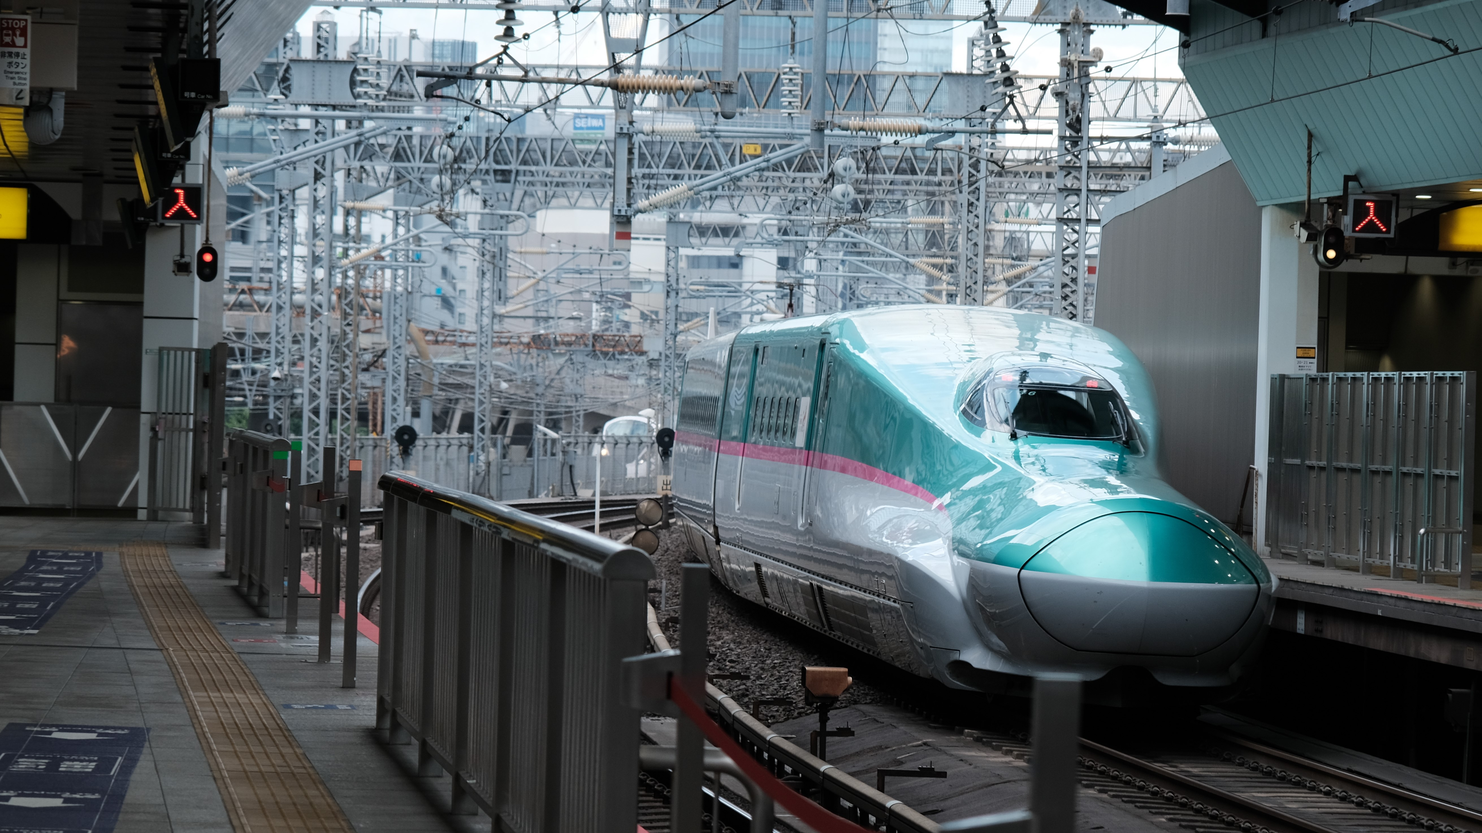
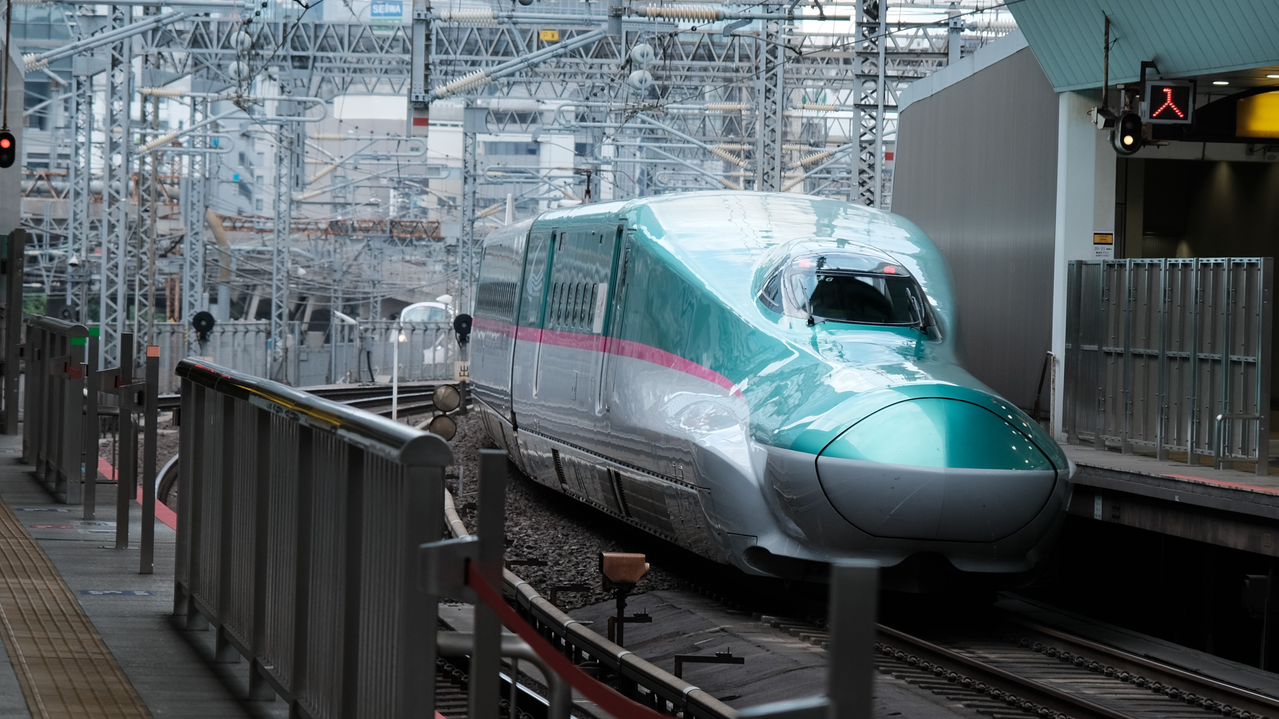
Site updated: 2023-01-14 17:29:56

diff --git a/index.html b/index.html
@@ -64,7 +64,7 @@
   <script id="fluid-configs">
     var Fluid = window.Fluid || {};
     Fluid.ctx = Object.assign({}, Fluid.ctx)
-    var CONFIG = {"hostname":"rynnzhan.github.io","root":"/","version":"1.9.4","typing":{"enable":true,"typeSpeed":50,"cursorChar":"_","loop":false,"scope":["home"]},"anchorjs":{"enable":true,"element":"h1,h2,h3,h4,h5,h6","placement":"left","visible":"hover","icon":""},"progressbar":{"enable":true,"height_px":3,"color":"#29d","options":{"showSpinner":false,"trickleSpeed":100}},"code_language":{"enable":true,"default":"TEXT"},"copy_btn":true,"image_caption":{"enable":true},"image_zoom":{"enable":true,"img_url_replace":["",""]},"toc":{"enable":true,"placement":"right","headingSelector":"h1,h2,h3,h4,h5,h6","collapseDepth":0},"lazyload":{"enable":true,"loading_img":"/img/loading.gif","onlypost":false,"offset_factor":2},"web_analytics":{"enable":true,"follow_dnt":true,"baidu":null,"google":null,"gtag":null,"tencent":{"sid":null,"cid":null},"woyaola":null,"cnzz":null,"leancloud":{"app_id":"jmmVC07XdsNvV6JeHPxb7FVl-MdYXbMMI","app_key":"h3vmDtkNT6Q3UrD9fEvZ0Ju4","server_url":null,"path":"window.location.pathname","ignore_local":false}},"search_path":"/local-search.xml"};
+    var CONFIG = {"hostname":"rynnzhan.github.io","root":"/","version":"1.9.4","typing":{"enable":true,"typeSpeed":70,"cursorChar":"_","loop":true,"scope":["home"]},"anchorjs":{"enable":true,"element":"h1,h2,h3,h4,h5,h6","placement":"left","visible":"hover","icon":"#"},"progressbar":{"enable":true,"height_px":3,"color":"#29d","options":{"showSpinner":false,"trickleSpeed":100}},"code_language":{"enable":true,"default":"TEXT"},"copy_btn":true,"image_caption":{"enable":true},"image_zoom":{"enable":true,"img_url_replace":["",""]},"toc":{"enable":true,"placement":"right","headingSelector":"h1,h2,h3,h4,h5,h6","collapseDepth":0},"lazyload":{"enable":true,"loading_img":"/img/loading.gif","onlypost":false,"offset_factor":2},"web_analytics":{"enable":true,"follow_dnt":true,"baidu":null,"google":null,"gtag":null,"tencent":{"sid":null,"cid":null},"woyaola":null,"cnzz":null,"leancloud":{"app_id":"jmmVC07XdsNvV6JeHPxb7FVl-MdYXbMMI","app_key":"h3vmDtkNT6Q3UrD9fEvZ0Ju4","server_url":null,"path":"window.location.pathname","ignore_local":false}},"search_path":"/local-search.xml"};
 
     if (CONFIG.web_analytics.follow_dnt) {
       var dntVal = navigator.doNotTrack || window.doNotTrack || navigator.msDoNotTrack;
@@ -203,7 +203,7 @@
   
 
 <div id="banner" class="banner" parallax=true
-     style="background: url('/img/DSCF2296.jpg') no-repeat center center; background-size: cover;">
+     style="background: url('/img/DSCF2297.jpg') no-repeat center center; background-size: cover;">
   <div class="full-bg-img">
     <div class="mask flex-center" style="background-color: rgba(0, 0, 0, 0.3)">
       <div class="banner-text text-center fade-in-up">

diff --git a/2023/01/14/new-post/index.html b/2023/01/14/new-post/index.html
@@ -78,7 +78,7 @@
   <script id="fluid-configs">
     var Fluid = window.Fluid || {};
     Fluid.ctx = Object.assign({}, Fluid.ctx)
-    var CONFIG = {"hostname":"rynnzhan.github.io","root":"/","version":"1.9.4","typing":{"enable":true,"typeSpeed":50,"cursorChar":"_","loop":false,"scope":["home"]},"anchorjs":{"enable":true,"element":"h1,h2,h3,h4,h5,h6","placement":"left","visible":"hover","icon":""},"progressbar":{"enable":true,"height_px":3,"color":"#29d","options":{"showSpinner":false,"trickleSpeed":100}},"code_language":{"enable":true,"default":"TEXT"},"copy_btn":true,"image_caption":{"enable":true},"image_zoom":{"enable":true,"img_url_replace":["",""]},"toc":{"enable":true,"placement":"right","headingSelector":"h1,h2,h3,h4,h5,h6","collapseDepth":0},"lazyload":{"enable":true,"loading_img":"/img/loading.gif","onlypost":false,"offset_factor":2},"web_analytics":{"enable":true,"follow_dnt":true,"baidu":null,"google":null,"gtag":null,"tencent":{"sid":null,"cid":null},"woyaola":null,"cnzz":null,"leancloud":{"app_id":"jmmVC07XdsNvV6JeHPxb7FVl-MdYXbMMI","app_key":"h3vmDtkNT6Q3UrD9fEvZ0Ju4","server_url":null,"path":"window.location.pathname","ignore_local":false}},"search_path":"/local-search.xml"};
+    var CONFIG = {"hostname":"rynnzhan.github.io","root":"/","version":"1.9.4","typing":{"enable":true,"typeSpeed":70,"cursorChar":"_","loop":true,"scope":["home"]},"anchorjs":{"enable":true,"element":"h1,h2,h3,h4,h5,h6","placement":"left","visible":"hover","icon":"#"},"progressbar":{"enable":true,"height_px":3,"color":"#29d","options":{"showSpinner":false,"trickleSpeed":100}},"code_language":{"enable":true,"default":"TEXT"},"copy_btn":true,"image_caption":{"enable":true},"image_zoom":{"enable":true,"img_url_replace":["",""]},"toc":{"enable":true,"placement":"right","headingSelector":"h1,h2,h3,h4,h5,h6","collapseDepth":0},"lazyload":{"enable":true,"loading_img":"/img/loading.gif","onlypost":false,"offset_factor":2},"web_analytics":{"enable":true,"follow_dnt":true,"baidu":null,"google":null,"gtag":null,"tencent":{"sid":null,"cid":null},"woyaola":null,"cnzz":null,"leancloud":{"app_id":"jmmVC07XdsNvV6JeHPxb7FVl-MdYXbMMI","app_key":"h3vmDtkNT6Q3UrD9fEvZ0Ju4","server_url":null,"path":"window.location.pathname","ignore_local":false}},"search_path":"/local-search.xml"};
 
     if (CONFIG.web_analytics.follow_dnt) {
       var dntVal = navigator.doNotTrack || window.doNotTrack || navigator.msDoNotTrack;

diff --git a/404.html b/404.html
@@ -64,7 +64,7 @@
   <script id="fluid-configs">
     var Fluid = window.Fluid || {};
     Fluid.ctx = Object.assign({}, Fluid.ctx)
-    var CONFIG = {"hostname":"rynnzhan.github.io","root":"/","version":"1.9.4","typing":{"enable":true,"typeSpeed":50,"cursorChar":"_","loop":false,"scope":["home"]},"anchorjs":{"enable":true,"element":"h1,h2,h3,h4,h5,h6","placement":"left","visible":"hover","icon":""},"progressbar":{"enable":true,"height_px":3,"color":"#29d","options":{"showSpinner":false,"trickleSpeed":100}},"code_language":{"enable":true,"default":"TEXT"},"copy_btn":true,"image_caption":{"enable":true},"image_zoom":{"enable":true,"img_url_replace":["",""]},"toc":{"enable":true,"placement":"right","headingSelector":"h1,h2,h3,h4,h5,h6","collapseDepth":0},"lazyload":{"enable":true,"loading_img":"/img/loading.gif","onlypost":false,"offset_factor":2},"web_analytics":{"enable":true,"follow_dnt":true,"baidu":null,"google":null,"gtag":null,"tencent":{"sid":null,"cid":null},"woyaola":null,"cnzz":null,"leancloud":{"app_id":"jmmVC07XdsNvV6JeHPxb7FVl-MdYXbMMI","app_key":"h3vmDtkNT6Q3UrD9fEvZ0Ju4","server_url":null,"path":"window.location.pathname","ignore_local":false}},"search_path":"/local-search.xml"};
+    var CONFIG = {"hostname":"rynnzhan.github.io","root":"/","version":"1.9.4","typing":{"enable":true,"typeSpeed":70,"cursorChar":"_","loop":true,"scope":["home"]},"anchorjs":{"enable":true,"element":"h1,h2,h3,h4,h5,h6","placement":"left","visible":"hover","icon":"#"},"progressbar":{"enable":true,"height_px":3,"color":"#29d","options":{"showSpinner":false,"trickleSpeed":100}},"code_language":{"enable":true,"default":"TEXT"},"copy_btn":true,"image_caption":{"enable":true},"image_zoom":{"enable":true,"img_url_replace":["",""]},"toc":{"enable":true,"placement":"right","headingSelector":"h1,h2,h3,h4,h5,h6","collapseDepth":0},"lazyload":{"enable":true,"loading_img":"/img/loading.gif","onlypost":false,"offset_factor":2},"web_analytics":{"enable":true,"follow_dnt":true,"baidu":null,"google":null,"gtag":null,"tencent":{"sid":null,"cid":null},"woyaola":null,"cnzz":null,"leancloud":{"app_id":"jmmVC07XdsNvV6JeHPxb7FVl-MdYXbMMI","app_key":"h3vmDtkNT6Q3UrD9fEvZ0Ju4","server_url":null,"path":"window.location.pathname","ignore_local":false}},"search_path":"/local-search.xml"};
 
     if (CONFIG.web_analytics.follow_dnt) {
       var dntVal = navigator.doNotTrack || window.doNotTrack || navigator.msDoNotTrack;

diff --git a/about/index.html b/about/index.html
@@ -72,7 +72,7 @@
   <script id="fluid-configs">
     var Fluid = window.Fluid || {};
     Fluid.ctx = Object.assign({}, Fluid.ctx)
-    var CONFIG = {"hostname":"rynnzhan.github.io","root":"/","version":"1.9.4","typing":{"enable":true,"typeSpeed":50,"cursorChar":"_","loop":false,"scope":["home"]},"anchorjs":{"enable":true,"element":"h1,h2,h3,h4,h5,h6","placement":"left","visible":"hover","icon":""},"progressbar":{"enable":true,"height_px":3,"color":"#29d","options":{"showSpinner":false,"trickleSpeed":100}},"code_language":{"enable":true,"default":"TEXT"},"copy_btn":true,"image_caption":{"enable":true},"image_zoom":{"enable":true,"img_url_replace":["",""]},"toc":{"enable":true,"placement":"right","headingSelector":"h1,h2,h3,h4,h5,h6","collapseDepth":0},"lazyload":{"enable":true,"loading_img":"/img/loading.gif","onlypost":false,"offset_factor":2},"web_analytics":{"enable":true,"follow_dnt":true,"baidu":null,"google":null,"gtag":null,"tencent":{"sid":null,"cid":null},"woyaola":null,"cnzz":null,"leancloud":{"app_id":"jmmVC07XdsNvV6JeHPxb7FVl-MdYXbMMI","app_key":"h3vmDtkNT6Q3UrD9fEvZ0Ju4","server_url":null,"path":"window.location.pathname","ignore_local":false}},"search_path":"/local-search.xml"};
+    var CONFIG = {"hostname":"rynnzhan.github.io","root":"/","version":"1.9.4","typing":{"enable":true,"typeSpeed":70,"cursorChar":"_","loop":true,"scope":["home"]},"anchorjs":{"enable":true,"element":"h1,h2,h3,h4,h5,h6","placement":"left","visible":"hover","icon":"#"},"progressbar":{"enable":true,"height_px":3,"color":"#29d","options":{"showSpinner":false,"trickleSpeed":100}},"code_language":{"enable":true,"default":"TEXT"},"copy_btn":true,"image_caption":{"enable":true},"image_zoom":{"enable":true,"img_url_replace":["",""]},"toc":{"enable":true,"placement":"right","headingSelector":"h1,h2,h3,h4,h5,h6","collapseDepth":0},"lazyload":{"enable":true,"loading_img":"/img/loading.gif","onlypost":false,"offset_factor":2},"web_analytics":{"enable":true,"follow_dnt":true,"baidu":null,"google":null,"gtag":null,"tencent":{"sid":null,"cid":null},"woyaola":null,"cnzz":null,"leancloud":{"app_id":"jmmVC07XdsNvV6JeHPxb7FVl-MdYXbMMI","app_key":"h3vmDtkNT6Q3UrD9fEvZ0Ju4","server_url":null,"path":"window.location.pathname","ignore_local":false}},"search_path":"/local-search.xml"};
 
     if (CONFIG.web_analytics.follow_dnt) {
       var dntVal = navigator.doNotTrack || window.doNotTrack || navigator.msDoNotTrack;

diff --git a/archives/2023/01/index.html b/archives/2023/01/index.html
@@ -64,7 +64,7 @@
   <script id="fluid-configs">
     var Fluid = window.Fluid || {};
     Fluid.ctx = Object.assign({}, Fluid.ctx)
-    var CONFIG = {"hostname":"rynnzhan.github.io","root":"/","version":"1.9.4","typing":{"enable":true,"typeSpeed":50,"cursorChar":"_","loop":false,"scope":["home"]},"anchorjs":{"enable":true,"element":"h1,h2,h3,h4,h5,h6","placement":"left","visible":"hover","icon":""},"progressbar":{"enable":true,"height_px":3,"color":"#29d","options":{"showSpinner":false,"trickleSpeed":100}},"code_language":{"enable":true,"default":"TEXT"},"copy_btn":true,"image_caption":{"enable":true},"image_zoom":{"enable":true,"img_url_replace":["",""]},"toc":{"enable":true,"placement":"right","headingSelector":"h1,h2,h3,h4,h5,h6","collapseDepth":0},"lazyload":{"enable":true,"loading_img":"/img/loading.gif","onlypost":false,"offset_factor":2},"web_analytics":{"enable":true,"follow_dnt":true,"baidu":null,"google":null,"gtag":null,"tencent":{"sid":null,"cid":null},"woyaola":null,"cnzz":null,"leancloud":{"app_id":"jmmVC07XdsNvV6JeHPxb7FVl-MdYXbMMI","app_key":"h3vmDtkNT6Q3UrD9fEvZ0Ju4","server_url":null,"path":"window.location.pathname","ignore_local":false}},"search_path":"/local-search.xml"};
+    var CONFIG = {"hostname":"rynnzhan.github.io","root":"/","version":"1.9.4","typing":{"enable":true,"typeSpeed":70,"cursorChar":"_","loop":true,"scope":["home"]},"anchorjs":{"enable":true,"element":"h1,h2,h3,h4,h5,h6","placement":"left","visible":"hover","icon":"#"},"progressbar":{"enable":true,"height_px":3,"color":"#29d","options":{"showSpinner":false,"trickleSpeed":100}},"code_language":{"enable":true,"default":"TEXT"},"copy_btn":true,"image_caption":{"enable":true},"image_zoom":{"enable":true,"img_url_replace":["",""]},"toc":{"enable":true,"placement":"right","headingSelector":"h1,h2,h3,h4,h5,h6","collapseDepth":0},"lazyload":{"enable":true,"loading_img":"/img/loading.gif","onlypost":false,"offset_factor":2},"web_analytics":{"enable":true,"follow_dnt":true,"baidu":null,"google":null,"gtag":null,"tencent":{"sid":null,"cid":null},"woyaola":null,"cnzz":null,"leancloud":{"app_id":"jmmVC07XdsNvV6JeHPxb7FVl-MdYXbMMI","app_key":"h3vmDtkNT6Q3UrD9fEvZ0Ju4","server_url":null,"path":"window.location.pathname","ignore_local":false}},"search_path":"/local-search.xml"};
 
     if (CONFIG.web_analytics.follow_dnt) {
       var dntVal = navigator.doNotTrack || window.doNotTrack || navigator.msDoNotTrack;

diff --git a/archives/2023/index.html b/archives/2023/index.html
@@ -64,7 +64,7 @@
   <script id="fluid-configs">
     var Fluid = window.Fluid || {};
     Fluid.ctx = Object.assign({}, Fluid.ctx)
-    var CONFIG = {"hostname":"rynnzhan.github.io","root":"/","version":"1.9.4","typing":{"enable":true,"typeSpeed":50,"cursorChar":"_","loop":false,"scope":["home"]},"anchorjs":{"enable":true,"element":"h1,h2,h3,h4,h5,h6","placement":"left","visible":"hover","icon":""},"progressbar":{"enable":true,"height_px":3,"color":"#29d","options":{"showSpinner":false,"trickleSpeed":100}},"code_language":{"enable":true,"default":"TEXT"},"copy_btn":true,"image_caption":{"enable":true},"image_zoom":{"enable":true,"img_url_replace":["",""]},"toc":{"enable":true,"placement":"right","headingSelector":"h1,h2,h3,h4,h5,h6","collapseDepth":0},"lazyload":{"enable":true,"loading_img":"/img/loading.gif","onlypost":false,"offset_factor":2},"web_analytics":{"enable":true,"follow_dnt":true,"baidu":null,"google":null,"gtag":null,"tencent":{"sid":null,"cid":null},"woyaola":null,"cnzz":null,"leancloud":{"app_id":"jmmVC07XdsNvV6JeHPxb7FVl-MdYXbMMI","app_key":"h3vmDtkNT6Q3UrD9fEvZ0Ju4","server_url":null,"path":"window.location.pathname","ignore_local":false}},"search_path":"/local-search.xml"};
+    var CONFIG = {"hostname":"rynnzhan.github.io","root":"/","version":"1.9.4","typing":{"enable":true,"typeSpeed":70,"cursorChar":"_","loop":true,"scope":["home"]},"anchorjs":{"enable":true,"element":"h1,h2,h3,h4,h5,h6","placement":"left","visible":"hover","icon":"#"},"progressbar":{"enable":true,"height_px":3,"color":"#29d","options":{"showSpinner":false,"trickleSpeed":100}},"code_language":{"enable":true,"default":"TEXT"},"copy_btn":true,"image_caption":{"enable":true},"image_zoom":{"enable":true,"img_url_replace":["",""]},"toc":{"enable":true,"placement":"right","headingSelector":"h1,h2,h3,h4,h5,h6","collapseDepth":0},"lazyload":{"enable":true,"loading_img":"/img/loading.gif","onlypost":false,"offset_factor":2},"web_analytics":{"enable":true,"follow_dnt":true,"baidu":null,"google":null,"gtag":null,"tencent":{"sid":null,"cid":null},"woyaola":null,"cnzz":null,"leancloud":{"app_id":"jmmVC07XdsNvV6JeHPxb7FVl-MdYXbMMI","app_key":"h3vmDtkNT6Q3UrD9fEvZ0Ju4","server_url":null,"path":"window.location.pathname","ignore_local":false}},"search_path":"/local-search.xml"};
 
     if (CONFIG.web_analytics.follow_dnt) {
       var dntVal = navigator.doNotTrack || window.doNotTrack || navigator.msDoNotTrack;

diff --git a/archives/index.html b/archives/index.html
@@ -64,7 +64,7 @@
   <script id="fluid-configs">
     var Fluid = window.Fluid || {};
     Fluid.ctx = Object.assign({}, Fluid.ctx)
-    var CONFIG = {"hostname":"rynnzhan.github.io","root":"/","version":"1.9.4","typing":{"enable":true,"typeSpeed":50,"cursorChar":"_","loop":false,"scope":["home"]},"anchorjs":{"enable":true,"element":"h1,h2,h3,h4,h5,h6","placement":"left","visible":"hover","icon":""},"progressbar":{"enable":true,"height_px":3,"color":"#29d","options":{"showSpinner":false,"trickleSpeed":100}},"code_language":{"enable":true,"default":"TEXT"},"copy_btn":true,"image_caption":{"enable":true},"image_zoom":{"enable":true,"img_url_replace":["",""]},"toc":{"enable":true,"placement":"right","headingSelector":"h1,h2,h3,h4,h5,h6","collapseDepth":0},"lazyload":{"enable":true,"loading_img":"/img/loading.gif","onlypost":false,"offset_factor":2},"web_analytics":{"enable":true,"follow_dnt":true,"baidu":null,"google":null,"gtag":null,"tencent":{"sid":null,"cid":null},"woyaola":null,"cnzz":null,"leancloud":{"app_id":"jmmVC07XdsNvV6JeHPxb7FVl-MdYXbMMI","app_key":"h3vmDtkNT6Q3UrD9fEvZ0Ju4","server_url":null,"path":"window.location.pathname","ignore_local":false}},"search_path":"/local-search.xml"};
+    var CONFIG = {"hostname":"rynnzhan.github.io","root":"/","version":"1.9.4","typing":{"enable":true,"typeSpeed":70,"cursorChar":"_","loop":true,"scope":["home"]},"anchorjs":{"enable":true,"element":"h1,h2,h3,h4,h5,h6","placement":"left","visible":"hover","icon":"#"},"progressbar":{"enable":true,"height_px":3,"color":"#29d","options":{"showSpinner":false,"trickleSpeed":100}},"code_language":{"enable":true,"default":"TEXT"},"copy_btn":true,"image_caption":{"enable":true},"image_zoom":{"enable":true,"img_url_replace":["",""]},"toc":{"enable":true,"placement":"right","headingSelector":"h1,h2,h3,h4,h5,h6","collapseDepth":0},"lazyload":{"enable":true,"loading_img":"/img/loading.gif","onlypost":false,"offset_factor":2},"web_analytics":{"enable":true,"follow_dnt":true,"baidu":null,"google":null,"gtag":null,"tencent":{"sid":null,"cid":null},"woyaola":null,"cnzz":null,"leancloud":{"app_id":"jmmVC07XdsNvV6JeHPxb7FVl-MdYXbMMI","app_key":"h3vmDtkNT6Q3UrD9fEvZ0Ju4","server_url":null,"path":"window.location.pathname","ignore_local":false}},"search_path":"/local-search.xml"};
 
     if (CONFIG.web_analytics.follow_dnt) {
       var dntVal = navigator.doNotTrack || window.doNotTrack || navigator.msDoNotTrack;

diff --git a/categories/index.html b/categories/index.html
@@ -64,7 +64,7 @@
   <script id="fluid-configs">
     var Fluid = window.Fluid || {};
     Fluid.ctx = Object.assign({}, Fluid.ctx)
-    var CONFIG = {"hostname":"rynnzhan.github.io","root":"/","version":"1.9.4","typing":{"enable":true,"typeSpeed":50,"cursorChar":"_","loop":false,"scope":["home"]},"anchorjs":{"enable":true,"element":"h1,h2,h3,h4,h5,h6","placement":"left","visible":"hover","icon":""},"progressbar":{"enable":true,"height_px":3,"color":"#29d","options":{"showSpinner":false,"trickleSpeed":100}},"code_language":{"enable":true,"default":"TEXT"},"copy_btn":true,"image_caption":{"enable":true},"image_zoom":{"enable":true,"img_url_replace":["",""]},"toc":{"enable":true,"placement":"right","headingSelector":"h1,h2,h3,h4,h5,h6","collapseDepth":0},"lazyload":{"enable":true,"loading_img":"/img/loading.gif","onlypost":false,"offset_factor":2},"web_analytics":{"enable":true,"follow_dnt":true,"baidu":null,"google":null,"gtag":null,"tencent":{"sid":null,"cid":null},"woyaola":null,"cnzz":null,"leancloud":{"app_id":"jmmVC07XdsNvV6JeHPxb7FVl-MdYXbMMI","app_key":"h3vmDtkNT6Q3UrD9fEvZ0Ju4","server_url":null,"path":"window.location.pathname","ignore_local":false}},"search_path":"/local-search.xml"};
+    var CONFIG = {"hostname":"rynnzhan.github.io","root":"/","version":"1.9.4","typing":{"enable":true,"typeSpeed":70,"cursorChar":"_","loop":true,"scope":["home"]},"anchorjs":{"enable":true,"element":"h1,h2,h3,h4,h5,h6","placement":"left","visible":"hover","icon":"#"},"progressbar":{"enable":true,"height_px":3,"color":"#29d","options":{"showSpinner":false,"trickleSpeed":100}},"code_language":{"enable":true,"default":"TEXT"},"copy_btn":true,"image_caption":{"enable":true},"image_zoom":{"enable":true,"img_url_replace":["",""]},"toc":{"enable":true,"placement":"right","headingSelector":"h1,h2,h3,h4,h5,h6","collapseDepth":0},"lazyload":{"enable":true,"loading_img":"/img/loading.gif","onlypost":false,"offset_factor":2},"web_analytics":{"enable":true,"follow_dnt":true,"baidu":null,"google":null,"gtag":null,"tencent":{"sid":null,"cid":null},"woyaola":null,"cnzz":null,"leancloud":{"app_id":"jmmVC07XdsNvV6JeHPxb7FVl-MdYXbMMI","app_key":"h3vmDtkNT6Q3UrD9fEvZ0Ju4","server_url":null,"path":"window.location.pathname","ignore_local":false}},"search_path":"/local-search.xml"};
 
     if (CONFIG.web_analytics.follow_dnt) {
       var dntVal = navigator.doNotTrack || window.doNotTrack || navigator.msDoNotTrack;

diff --git a/links/index.html b/links/index.html
@@ -64,7 +64,7 @@
   <script id="fluid-configs">
     var Fluid = window.Fluid || {};
     Fluid.ctx = Object.assign({}, Fluid.ctx)
-    var CONFIG = {"hostname":"rynnzhan.github.io","root":"/","version":"1.9.4","typing":{"enable":true,"typeSpeed":50,"cursorChar":"_","loop":false,"scope":["home"]},"anchorjs":{"enable":true,"element":"h1,h2,h3,h4,h5,h6","placement":"left","visible":"hover","icon":""},"progressbar":{"enable":true,"height_px":3,"color":"#29d","options":{"showSpinner":false,"trickleSpeed":100}},"code_language":{"enable":true,"default":"TEXT"},"copy_btn":true,"image_caption":{"enable":true},"image_zoom":{"enable":true,"img_url_replace":["",""]},"toc":{"enable":true,"placement":"right","headingSelector":"h1,h2,h3,h4,h5,h6","collapseDepth":0},"lazyload":{"enable":true,"loading_img":"/img/loading.gif","onlypost":false,"offset_factor":2},"web_analytics":{"enable":true,"follow_dnt":true,"baidu":null,"google":null,"gtag":null,"tencent":{"sid":null,"cid":null},"woyaola":null,"cnzz":null,"leancloud":{"app_id":"jmmVC07XdsNvV6JeHPxb7FVl-MdYXbMMI","app_key":"h3vmDtkNT6Q3UrD9fEvZ0Ju4","server_url":null,"path":"window.location.pathname","ignore_local":false}},"search_path":"/local-search.xml"};
+    var CONFIG = {"hostname":"rynnzhan.github.io","root":"/","version":"1.9.4","typing":{"enable":true,"typeSpeed":70,"cursorChar":"_","loop":true,"scope":["home"]},"anchorjs":{"enable":true,"element":"h1,h2,h3,h4,h5,h6","placement":"left","visible":"hover","icon":"#"},"progressbar":{"enable":true,"height_px":3,"color":"#29d","options":{"showSpinner":false,"trickleSpeed":100}},"code_language":{"enable":true,"default":"TEXT"},"copy_btn":true,"image_caption":{"enable":true},"image_zoom":{"enable":true,"img_url_replace":["",""]},"toc":{"enable":true,"placement":"right","headingSelector":"h1,h2,h3,h4,h5,h6","collapseDepth":0},"lazyload":{"enable":true,"loading_img":"/img/loading.gif","onlypost":false,"offset_factor":2},"web_analytics":{"enable":true,"follow_dnt":true,"baidu":null,"google":null,"gtag":null,"tencent":{"sid":null,"cid":null},"woyaola":null,"cnzz":null,"leancloud":{"app_id":"jmmVC07XdsNvV6JeHPxb7FVl-MdYXbMMI","app_key":"h3vmDtkNT6Q3UrD9fEvZ0Ju4","server_url":null,"path":"window.location.pathname","ignore_local":false}},"search_path":"/local-search.xml"};
 
     if (CONFIG.web_analytics.follow_dnt) {
       var dntVal = navigator.doNotTrack || window.doNotTrack || navigator.msDoNotTrack;

diff --git a/tags/index.html b/tags/index.html
@@ -64,7 +64,7 @@
   <script id="fluid-configs">
     var Fluid = window.Fluid || {};
     Fluid.ctx = Object.assign({}, Fluid.ctx)
-    var CONFIG = {"hostname":"rynnzhan.github.io","root":"/","version":"1.9.4","typing":{"enable":true,"typeSpeed":50,"cursorChar":"_","loop":false,"scope":["home"]},"anchorjs":{"enable":true,"element":"h1,h2,h3,h4,h5,h6","placement":"left","visible":"hover","icon":""},"progressbar":{"enable":true,"height_px":3,"color":"#29d","options":{"showSpinner":false,"trickleSpeed":100}},"code_language":{"enable":true,"default":"TEXT"},"copy_btn":true,"image_caption":{"enable":true},"image_zoom":{"enable":true,"img_url_replace":["",""]},"toc":{"enable":true,"placement":"right","headingSelector":"h1,h2,h3,h4,h5,h6","collapseDepth":0},"lazyload":{"enable":true,"loading_img":"/img/loading.gif","onlypost":false,"offset_factor":2},"web_analytics":{"enable":true,"follow_dnt":true,"baidu":null,"google":null,"gtag":null,"tencent":{"sid":null,"cid":null},"woyaola":null,"cnzz":null,"leancloud":{"app_id":"jmmVC07XdsNvV6JeHPxb7FVl-MdYXbMMI","app_key":"h3vmDtkNT6Q3UrD9fEvZ0Ju4","server_url":null,"path":"window.location.pathname","ignore_local":false}},"search_path":"/local-search.xml"};
+    var CONFIG = {"hostname":"rynnzhan.github.io","root":"/","version":"1.9.4","typing":{"enable":true,"typeSpeed":70,"cursorChar":"_","loop":true,"scope":["home"]},"anchorjs":{"enable":true,"element":"h1,h2,h3,h4,h5,h6","placement":"left","visible":"hover","icon":"#"},"progressbar":{"enable":true,"height_px":3,"color":"#29d","options":{"showSpinner":false,"trickleSpeed":100}},"code_language":{"enable":true,"default":"TEXT"},"copy_btn":true,"image_caption":{"enable":true},"image_zoom":{"enable":true,"img_url_replace":["",""]},"toc":{"enable":true,"placement":"right","headingSelector":"h1,h2,h3,h4,h5,h6","collapseDepth":0},"lazyload":{"enable":true,"loading_img":"/img/loading.gif","onlypost":false,"offset_factor":2},"web_analytics":{"enable":true,"follow_dnt":true,"baidu":null,"google":null,"gtag":null,"tencent":{"sid":null,"cid":null},"woyaola":null,"cnzz":null,"leancloud":{"app_id":"jmmVC07XdsNvV6JeHPxb7FVl-MdYXbMMI","app_key":"h3vmDtkNT6Q3UrD9fEvZ0Ju4","server_url":null,"path":"window.location.pathname","ignore_local":false}},"search_path":"/local-search.xml"};
 
     if (CONFIG.web_analytics.follow_dnt) {
       var dntVal = navigator.doNotTrack || window.doNotTrack || navigator.msDoNotTrack;

diff --git a/tags/test/index.html b/tags/test/index.html
@@ -64,7 +64,7 @@
   <script id="fluid-configs">
     var Fluid = window.Fluid || {};
     Fluid.ctx = Object.assign({}, Fluid.ctx)
-    var CONFIG = {"hostname":"rynnzhan.github.io","root":"/","version":"1.9.4","typing":{"enable":true,"typeSpeed":50,"cursorChar":"_","loop":false,"scope":["home"]},"anchorjs":{"enable":true,"element":"h1,h2,h3,h4,h5,h6","placement":"left","visible":"hover","icon":""},"progressbar":{"enable":true,"height_px":3,"color":"#29d","options":{"showSpinner":false,"trickleSpeed":100}},"code_language":{"enable":true,"default":"TEXT"},"copy_btn":true,"image_caption":{"enable":true},"image_zoom":{"enable":true,"img_url_replace":["",""]},"toc":{"enable":true,"placement":"right","headingSelector":"h1,h2,h3,h4,h5,h6","collapseDepth":0},"lazyload":{"enable":true,"loading_img":"/img/loading.gif","onlypost":false,"offset_factor":2},"web_analytics":{"enable":true,"follow_dnt":true,"baidu":null,"google":null,"gtag":null,"tencent":{"sid":null,"cid":null},"woyaola":null,"cnzz":null,"leancloud":{"app_id":"jmmVC07XdsNvV6JeHPxb7FVl-MdYXbMMI","app_key":"h3vmDtkNT6Q3UrD9fEvZ0Ju4","server_url":null,"path":"window.location.pathname","ignore_local":false}},"search_path":"/local-search.xml"};
+    var CONFIG = {"hostname":"rynnzhan.github.io","root":"/","version":"1.9.4","typing":{"enable":true,"typeSpeed":70,"cursorChar":"_","loop":true,"scope":["home"]},"anchorjs":{"enable":true,"element":"h1,h2,h3,h4,h5,h6","placement":"left","visible":"hover","icon":"#"},"progressbar":{"enable":true,"height_px":3,"color":"#29d","options":{"showSpinner":false,"trickleSpeed":100}},"code_language":{"enable":true,"default":"TEXT"},"copy_btn":true,"image_caption":{"enable":true},"image_zoom":{"enable":true,"img_url_replace":["",""]},"toc":{"enable":true,"placement":"right","headingSelector":"h1,h2,h3,h4,h5,h6","collapseDepth":0},"lazyload":{"enable":true,"loading_img":"/img/loading.gif","onlypost":false,"offset_factor":2},"web_analytics":{"enable":true,"follow_dnt":true,"baidu":null,"google":null,"gtag":null,"tencent":{"sid":null,"cid":null},"woyaola":null,"cnzz":null,"leancloud":{"app_id":"jmmVC07XdsNvV6JeHPxb7FVl-MdYXbMMI","app_key":"h3vmDtkNT6Q3UrD9fEvZ0Ju4","server_url":null,"path":"window.location.pathname","ignore_local":false}},"search_path":"/local-search.xml"};
 
     if (CONFIG.web_analytics.follow_dnt) {
       var dntVal = navigator.doNotTrack || window.doNotTrack || navigator.msDoNotTrack;
